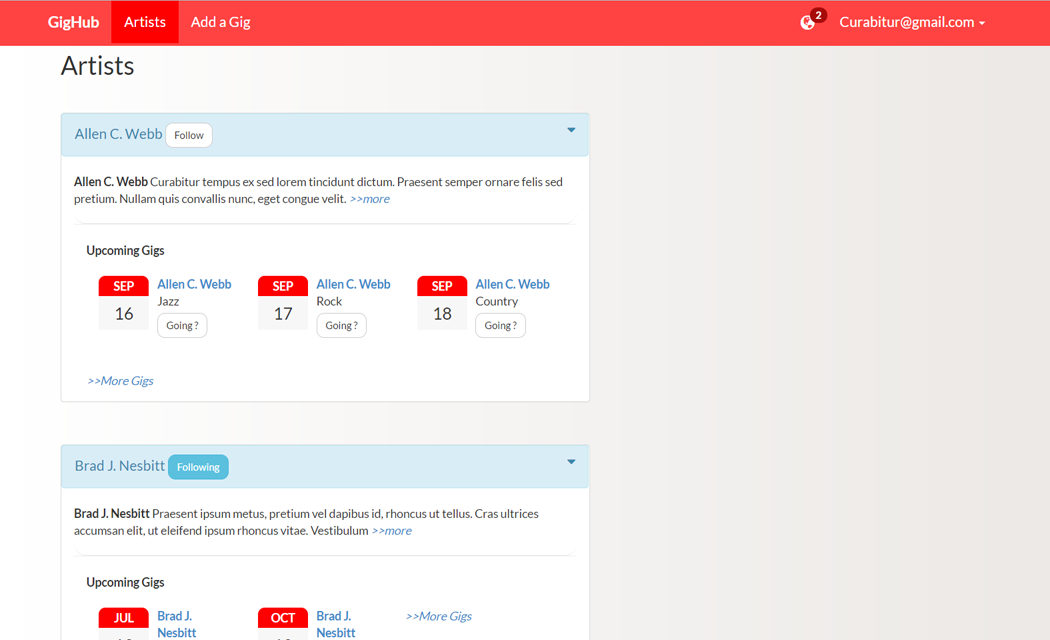
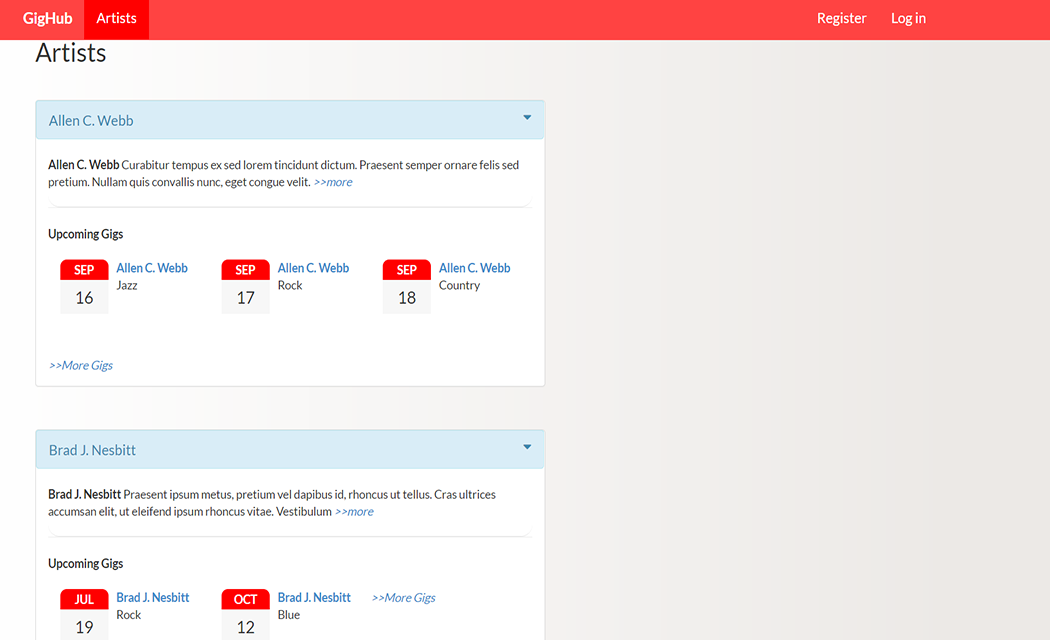
Refactor layout

diff --git a/GigHub/GigHub/Content/landing/style.css b/GigHub/GigHub/Content/landing/style.css
@@ -43,8 +43,6 @@ a:hover, a:focus {
 }
 
 
-
-
 /*Navigation*/
 .navbar {
     margin-bottom: 0;
@@ -146,7 +144,12 @@ a:hover, a:focus {
 
 #registerForm {
     color: #5b5b5b;
+    text-align: left;
     display: none;
+}
+
+label{
+    font-weight:300;
 }
 
 #signin {
@@ -170,7 +173,7 @@ a:hover, a:focus {
     width: 100%;
     height: auto;
     padding: 100px 0;
-    text-align: center;
+    text-align:center;
     color: #f4f4f4;
     background: url("../img/landing.jpg") no-repeat bottom center scroll;
     background-color: #333333;
@@ -190,6 +193,9 @@ a:hover, a:focus {
     width: 100%;
 }
 
+.container.well{
+    padding:20px 30px 30px 30px;
+}
 .intro-body {
     display: table-cell;
     vertical-align: middle;
@@ -211,7 +217,8 @@ a:hover, a:focus {
     }
 
     .brand-heading {
-        font-size: 100px;
+        margin-top:70px;
+        font-size: 80px;
     }
 
     .intro-text {

diff --git a/GigHub/GigHub/Content/site.css b/GigHub/GigHub/Content/site.css
@@ -117,6 +117,10 @@ margin-bottom: 40px;
     display: block;
 }
 
+ul[id="upCommingGigs"], ul[id="cancelledGigs"] {
+    padding-left: 0;
+}
+
 .form-inline .radio {
     display: block;
 }
@@ -202,8 +206,8 @@ input[type=radio] {
     height: 1em;
 }
 
-#searchGigs, #gigDateTime {
-    width: 300px;
+#searchGigs {
+    width: 230px;
 }
 
 .ui_ribbon {

diff --git a/GigHub/GigHub/Controllers/HomeController.cs b/GigHub/GigHub/Controllers/HomeController.cs
@@ -16,10 +16,7 @@ namespace GigHub.Controllers
             _unitOfWork = unitOfWork;
         }
 
-        public ActionResult Landing()
-        {
-            return View();
-        }
+
         public ActionResult Index(string query = null)
         {
             var viewModel = new GigsViewModel

diff --git a/GigHub/GigHub/App_Start/BundleConfig.cs b/GigHub/GigHub/App_Start/BundleConfig.cs
@@ -77,7 +77,7 @@ namespace GigHub
 
 
             bundles.Add(new StyleBundle("~/Content/landing/css").Include(
-
+                "~/Content/bootstrap-theme-custom.css",
                 "~/Content/landing/style.css"));
         }
     }
